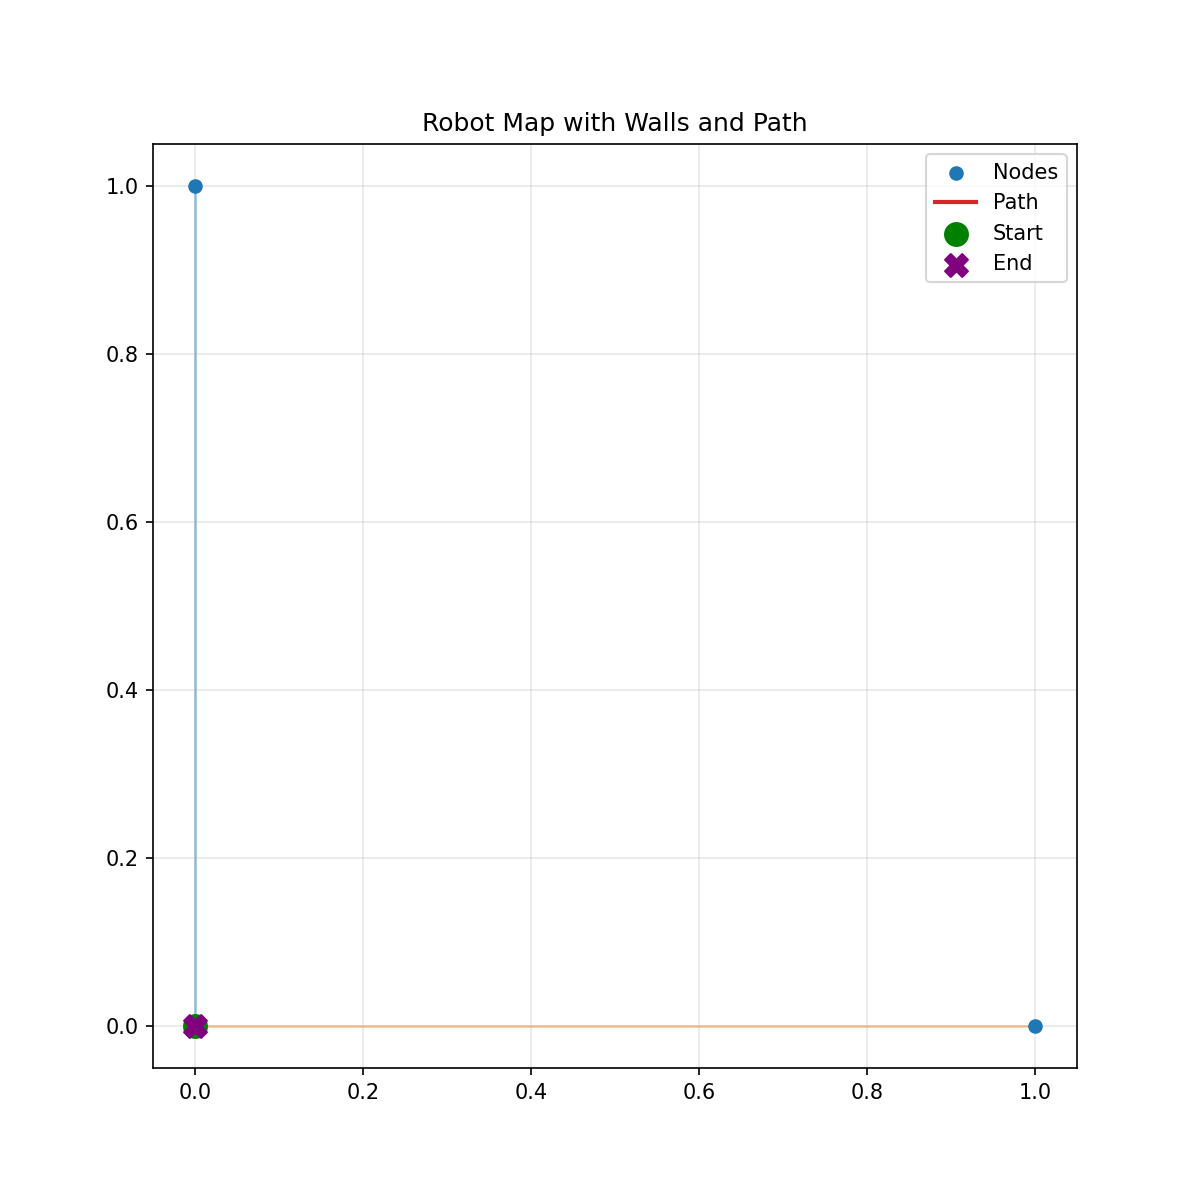
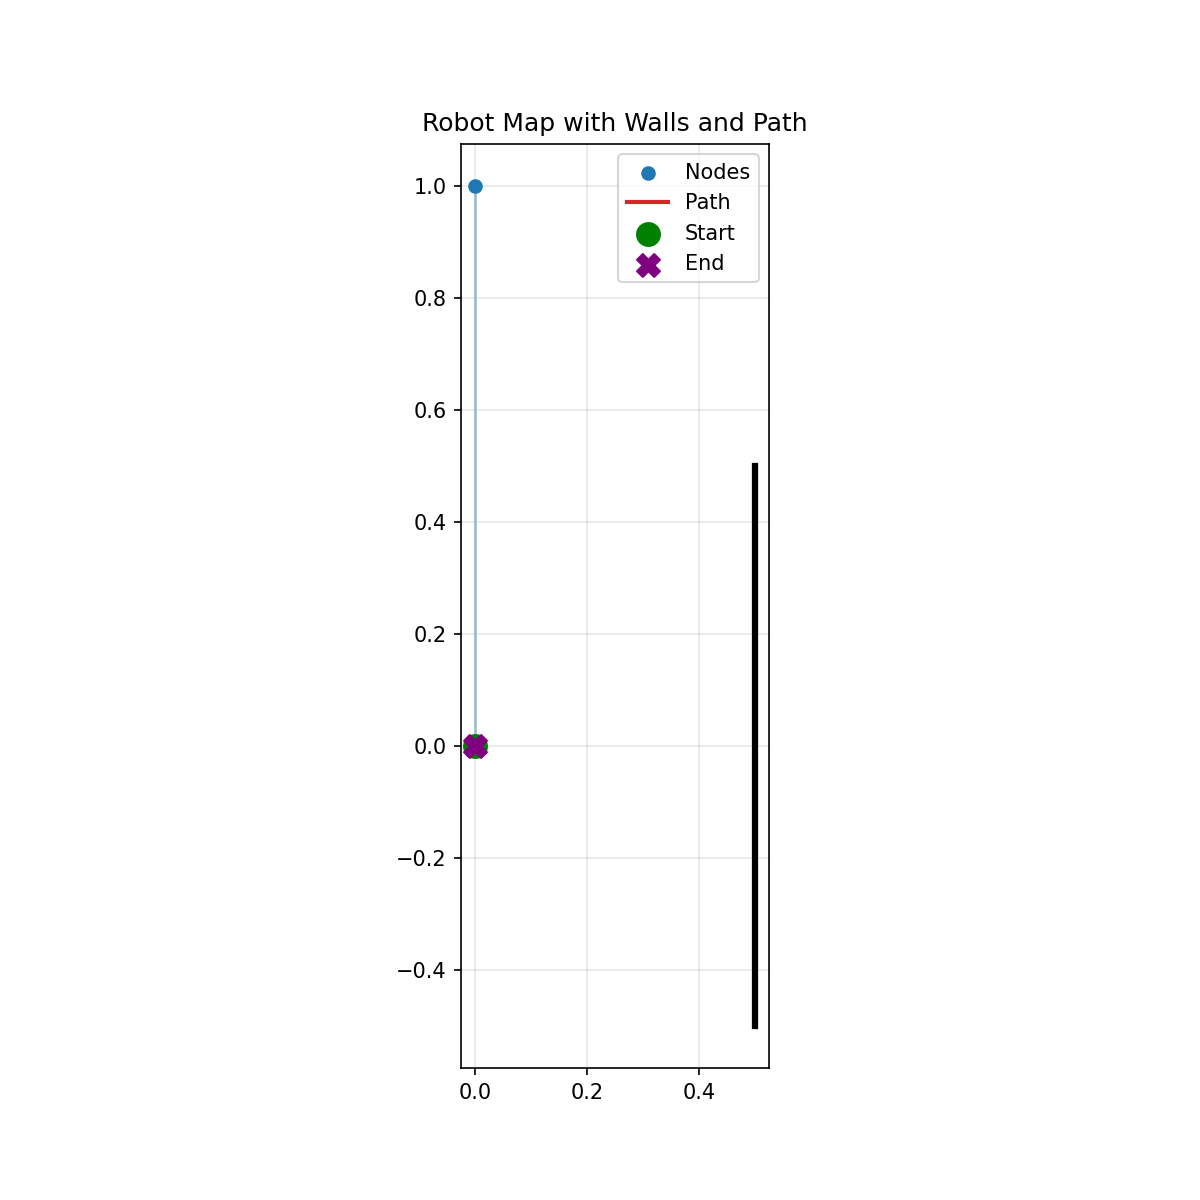
Remove obsolete README and JSON files, and update maze map image for project cleanup.

diff --git a/lab/lab1_complete.py b/lab/lab1_complete.py
@@ -434,8 +434,6 @@ class MazeExplorer:
                 hsv = cv2.cvtColor(blur, cv2.COLOR_BGR2HSV)
                 color_data = self.color_ranges[color_key]
                 
-                # สร้าง mask จากช่วงสี
-                # สร้าง mask จากช่วงสี
                 # สร้าง mask จากช่วงสี (รองรับกรณีแดง 2 ช่วง)
                 is_dual_range = (
                     isinstance(color_data, tuple)
